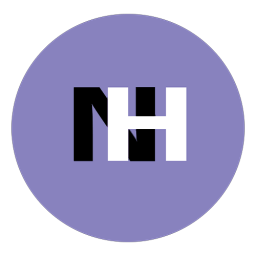
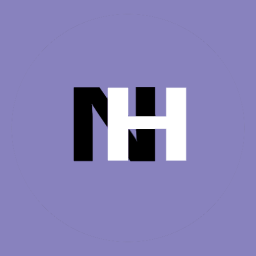
added splash screen for iOS

diff --git a/src/app/layout.tsx b/src/app/layout.tsx
@@ -72,10 +72,179 @@ export default function RootLayout({
         />
 
         <link rel="icon" href="/nothowstorygoes.dev/ico192.png" />
-        <link rel="apple-touch-icon" href="/nothowstorygoes.dev/ico192.png" />
         <meta
           name="description"
           content="Pio Alessandro Esposito, BSc Computer Science student, Web Developer"
+        />
+        <link
+          rel="apple-touch-startup-image"
+          media="screen and (device-width: 430px) and (device-height: 932px) and (-webkit-device-pixel-ratio: 3) and (orientation: landscape)"
+          href="/nothowstorygoes.dev/splash_screens/iPhone_15_Pro_Max__iPhone_15_Plus__iPhone_14_Pro_Max_landscape.png"
+        />
+        <link
+          rel="apple-touch-startup-image"
+          media="screen and (device-width: 393px) and (device-height: 852px) and (-webkit-device-pixel-ratio: 3) and (orientation: landscape)"
+          href="/nothowstorygoes.dev/splash_screens/iPhone_15_Pro__iPhone_15__iPhone_14_Pro_landscape.png"
+        />
+        <link
+          rel="apple-touch-startup-image"
+          media="screen and (device-width: 428px) and (device-height: 926px) and (-webkit-device-pixel-ratio: 3) and (orientation: landscape)"
+          href="/nothowstorygoes.dev/splash_screens/iPhone_14_Plus__iPhone_13_Pro_Max__iPhone_12_Pro_Max_landscape.png"
+        />
+        <link
+          rel="apple-touch-startup-image"
+          media="screen and (device-width: 390px) and (device-height: 844px) and (-webkit-device-pixel-ratio: 3) and (orientation: landscape)"
+          href="/nothowstorygoes.dev/splash_screens/iPhone_14__iPhone_13_Pro__iPhone_13__iPhone_12_Pro__iPhone_12_landscape.png"
+        />
+        <link
+          rel="apple-touch-startup-image"
+          media="screen and (device-width: 375px) and (device-height: 812px) and (-webkit-device-pixel-ratio: 3) and (orientation: landscape)"
+          href="/nothowstorygoes.dev/splash_screens/iPhone_13_mini__iPhone_12_mini__iPhone_11_Pro__iPhone_XS__iPhone_X_landscape.png"
+        />
+        <link
+          rel="apple-touch-startup-image"
+          media="screen and (device-width: 414px) and (device-height: 896px) and (-webkit-device-pixel-ratio: 3) and (orientation: landscape)"
+          href="/nothowstorygoes.dev/splash_screens/iPhone_11_Pro_Max__iPhone_XS_Max_landscape.png"
+        />
+        <link
+          rel="apple-touch-startup-image"
+          media="screen and (device-width: 414px) and (device-height: 896px) and (-webkit-device-pixel-ratio: 2) and (orientation: landscape)"
+          href="/nothowstorygoes.dev/splash_screens/iPhone_11__iPhone_XR_landscape.png"
+        />
+        <link
+          rel="apple-touch-startup-image"
+          media="screen and (device-width: 414px) and (device-height: 736px) and (-webkit-device-pixel-ratio: 3) and (orientation: landscape)"
+          href="/nothowstorygoes.dev/splash_screens/iPhone_8_Plus__iPhone_7_Plus__iPhone_6s_Plus__iPhone_6_Plus_landscape.png"
+        />
+        <link
+          rel="apple-touch-startup-image"
+          media="screen and (device-width: 375px) and (device-height: 667px) and (-webkit-device-pixel-ratio: 2) and (orientation: landscape)"
+          href="/nothowstorygoes.dev/splash_screens/iPhone_8__iPhone_7__iPhone_6s__iPhone_6__4.7__iPhone_SE_landscape.png"
+        />
+        <link
+          rel="apple-touch-startup-image"
+          media="screen and (device-width: 320px) and (device-height: 568px) and (-webkit-device-pixel-ratio: 2) and (orientation: landscape)"
+          href="/nothowstorygoes.dev/splash_screens/4__iPhone_SE__iPod_touch_5th_generation_and_later_landscape.png"
+        />
+        <link
+          rel="apple-touch-startup-image"
+          media="screen and (device-width: 1024px) and (device-height: 1366px) and (-webkit-device-pixel-ratio: 2) and (orientation: landscape)"
+          href="/nothowstorygoes.dev/splash_screens/12.9__iPad_Pro_landscape.png"
+        />
+        <link
+          rel="apple-touch-startup-image"
+          media="screen and (device-width: 834px) and (device-height: 1194px) and (-webkit-device-pixel-ratio: 2) and (orientation: landscape)"
+          href="/nothowstorygoes.dev/splash_screens/11__iPad_Pro__10.5__iPad_Pro_landscape.png"
+        />
+        <link
+          rel="apple-touch-startup-image"
+          media="screen and (device-width: 820px) and (device-height: 1180px) and (-webkit-device-pixel-ratio: 2) and (orientation: landscape)"
+          href="/nothowstorygoes.dev/splash_screens/10.9__iPad_Air_landscape.png"
+        />
+        <link
+          rel="apple-touch-startup-image"
+          media="screen and (device-width: 834px) and (device-height: 1112px) and (-webkit-device-pixel-ratio: 2) and (orientation: landscape)"
+          href="/nothowstorygoes.dev/splash_screens/10.5__iPad_Air_landscape.png"
+        />
+        <link
+          rel="apple-touch-startup-image"
+          media="screen and (device-width: 810px) and (device-height: 1080px) and (-webkit-device-pixel-ratio: 2) and (orientation: landscape)"
+          href="/nothowstorygoes.dev/splash_screens/10.2__iPad_landscape.png"
+        />
+        <link
+          rel="apple-touch-startup-image"
+          media="screen and (device-width: 768px) and (device-height: 1024px) and (-webkit-device-pixel-ratio: 2) and (orientation: landscape)"
+          href="/nothowstorygoes.dev/splash_screens/9.7__iPad_Pro__7.9__iPad_mini__9.7__iPad_Air__9.7__iPad_landscape.png"
+        />
+        <link
+          rel="apple-touch-startup-image"
+          media="screen and (device-width: 744px) and (device-height: 1133px) and (-webkit-device-pixel-ratio: 2) and (orientation: landscape)"
+          href="/nothowstorygoes.dev/splash_screens/8.3__iPad_Mini_landscape.png"
+        />
+        <link
+          rel="apple-touch-startup-image"
+          media="screen and (device-width: 430px) and (device-height: 932px) and (-webkit-device-pixel-ratio: 3) and (orientation: portrait)"
+          href="/nothowstorygoes.dev/splash_screens/iPhone_15_Pro_Max__iPhone_15_Plus__iPhone_14_Pro_Max_portrait.png"
+        />
+        <link
+          rel="apple-touch-startup-image"
+          media="screen and (device-width: 393px) and (device-height: 852px) and (-webkit-device-pixel-ratio: 3) and (orientation: portrait)"
+          href="/nothowstorygoes.dev/splash_screens/iPhone_15_Pro__iPhone_15__iPhone_14_Pro_portrait.png"
+        />
+        <link
+          rel="apple-touch-startup-image"
+          media="screen and (device-width: 428px) and (device-height: 926px) and (-webkit-device-pixel-ratio: 3) and (orientation: portrait)"
+          href="/nothowstorygoes.dev/splash_screens/iPhone_14_Plus__iPhone_13_Pro_Max__iPhone_12_Pro_Max_portrait.png"
+        />
+        <link
+          rel="apple-touch-startup-image"
+          media="screen and (device-width: 390px) and (device-height: 844px) and (-webkit-device-pixel-ratio: 3) and (orientation: portrait)"
+          href="/nothowstorygoes.dev/splash_screens/iPhone_14__iPhone_13_Pro__iPhone_13__iPhone_12_Pro__iPhone_12_portrait.png"
+        />
+        <link
+          rel="apple-touch-startup-image"
+          media="screen and (device-width: 375px) and (device-height: 812px) and (-webkit-device-pixel-ratio: 3) and (orientation: portrait)"
+          href="/nothowstorygoes.dev/splash_screens/iPhone_13_mini__iPhone_12_mini__iPhone_11_Pro__iPhone_XS__iPhone_X_portrait.png"
+        />
+        <link
+          rel="apple-touch-startup-image"
+          media="screen and (device-width: 414px) and (device-height: 896px) and (-webkit-device-pixel-ratio: 3) and (orientation: portrait)"
+          href="/nothowstorygoes.dev/splash_screens/iPhone_11_Pro_Max__iPhone_XS_Max_portrait.png"
+        />
+        <link
+          rel="apple-touch-startup-image"
+          media="screen and (device-width: 414px) and (device-height: 896px) and (-webkit-device-pixel-ratio: 2) and (orientation: portrait)"
+          href="/nothowstorygoes.dev/splash_screens/iPhone_11__iPhone_XR_portrait.png"
+        />
+        <link
+          rel="apple-touch-startup-image"
+          media="screen and (device-width: 414px) and (device-height: 736px) and (-webkit-device-pixel-ratio: 3) and (orientation: portrait)"
+          href="/nothowstorygoes.dev/splash_screens/iPhone_8_Plus__iPhone_7_Plus__iPhone_6s_Plus__iPhone_6_Plus_portrait.png"
+        />
+        <link
+          rel="apple-touch-startup-image"
+          media="screen and (device-width: 375px) and (device-height: 667px) and (-webkit-device-pixel-ratio: 2) and (orientation: portrait)"
+          href="/nothowstorygoes.dev/splash_screens/iPhone_8__iPhone_7__iPhone_6s__iPhone_6__4.7__iPhone_SE_portrait.png"
+        />
+        <link
+          rel="apple-touch-startup-image"
+          media="screen and (device-width: 320px) and (device-height: 568px) and (-webkit-device-pixel-ratio: 2) and (orientation: portrait)"
+          href="/nothowstorygoes.dev/splash_screens/4__iPhone_SE__iPod_touch_5th_generation_and_later_portrait.png"
+        />
+        <link
+          rel="apple-touch-startup-image"
+          media="screen and (device-width: 1024px) and (device-height: 1366px) and (-webkit-device-pixel-ratio: 2) and (orientation: portrait)"
+          href="/nothowstorygoes.dev/splash_screens/12.9__iPad_Pro_portrait.png"
+        />
+        <link
+          rel="apple-touch-startup-image"
+          media="screen and (device-width: 834px) and (device-height: 1194px) and (-webkit-device-pixel-ratio: 2) and (orientation: portrait)"
+          href="/nothowstorygoes.dev/splash_screens/11__iPad_Pro__10.5__iPad_Pro_portrait.png"
+        />
+        <link
+          rel="apple-touch-startup-image"
+          media="screen and (device-width: 820px) and (device-height: 1180px) and (-webkit-device-pixel-ratio: 2) and (orientation: portrait)"
+          href="/nothowstorygoes.dev/splash_screens/10.9__iPad_Air_portrait.png"
+        />
+        <link
+          rel="apple-touch-startup-image"
+          media="screen and (device-width: 834px) and (device-height: 1112px) and (-webkit-device-pixel-ratio: 2) and (orientation: portrait)"
+          href="/nothowstorygoes.dev/splash_screens/10.5__iPad_Air_portrait.png"
+        />
+        <link
+          rel="apple-touch-startup-image"
+          media="screen and (device-width: 810px) and (device-height: 1080px) and (-webkit-device-pixel-ratio: 2) and (orientation: portrait)"
+          href="/nothowstorygoes.dev/splash_screens/10.2__iPad_portrait.png"
+        />
+        <link
+          rel="apple-touch-startup-image"
+          media="screen and (device-width: 768px) and (device-height: 1024px) and (-webkit-device-pixel-ratio: 2) and (orientation: portrait)"
+          href="/nothowstorygoes.dev/splash_screens/9.7__iPad_Pro__7.9__iPad_mini__9.7__iPad_Air__9.7__iPad_portrait.png"
+        />
+        <link
+          rel="apple-touch-startup-image"
+          media="screen and (device-width: 744px) and (device-height: 1133px) and (-webkit-device-pixel-ratio: 2) and (orientation: portrait)"
+          href="/nothowstorygoes.dev/splash_screens/8.3__iPad_Mini_portrait.png"
         />
       </head>
       <body className={comfortaaa.className}>{children}</body>
